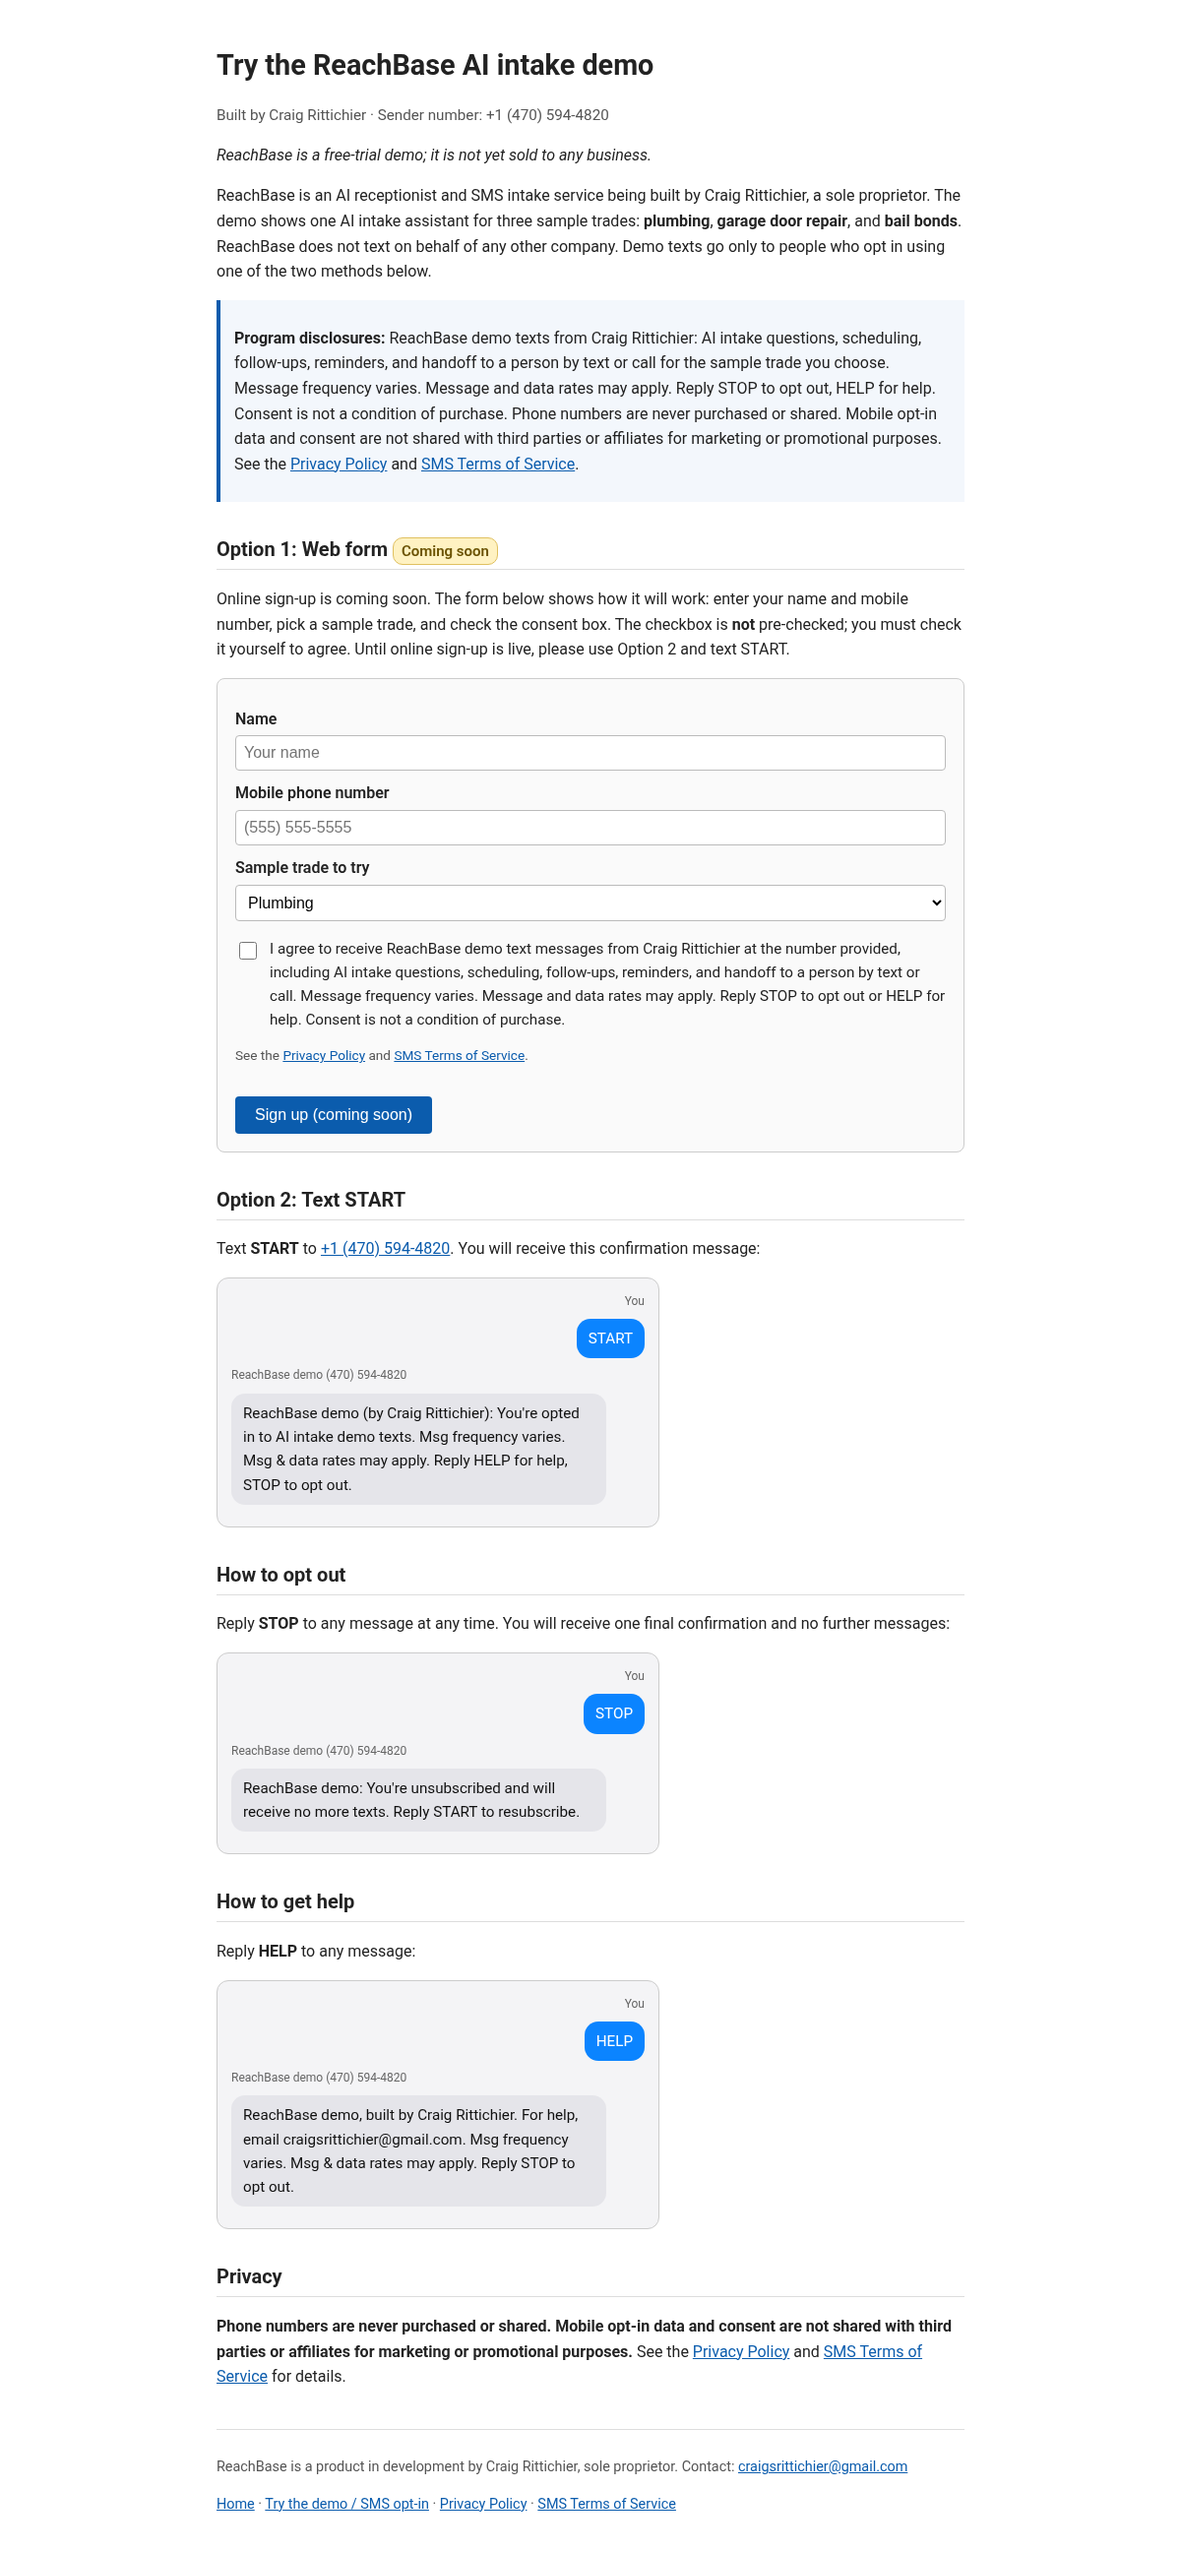
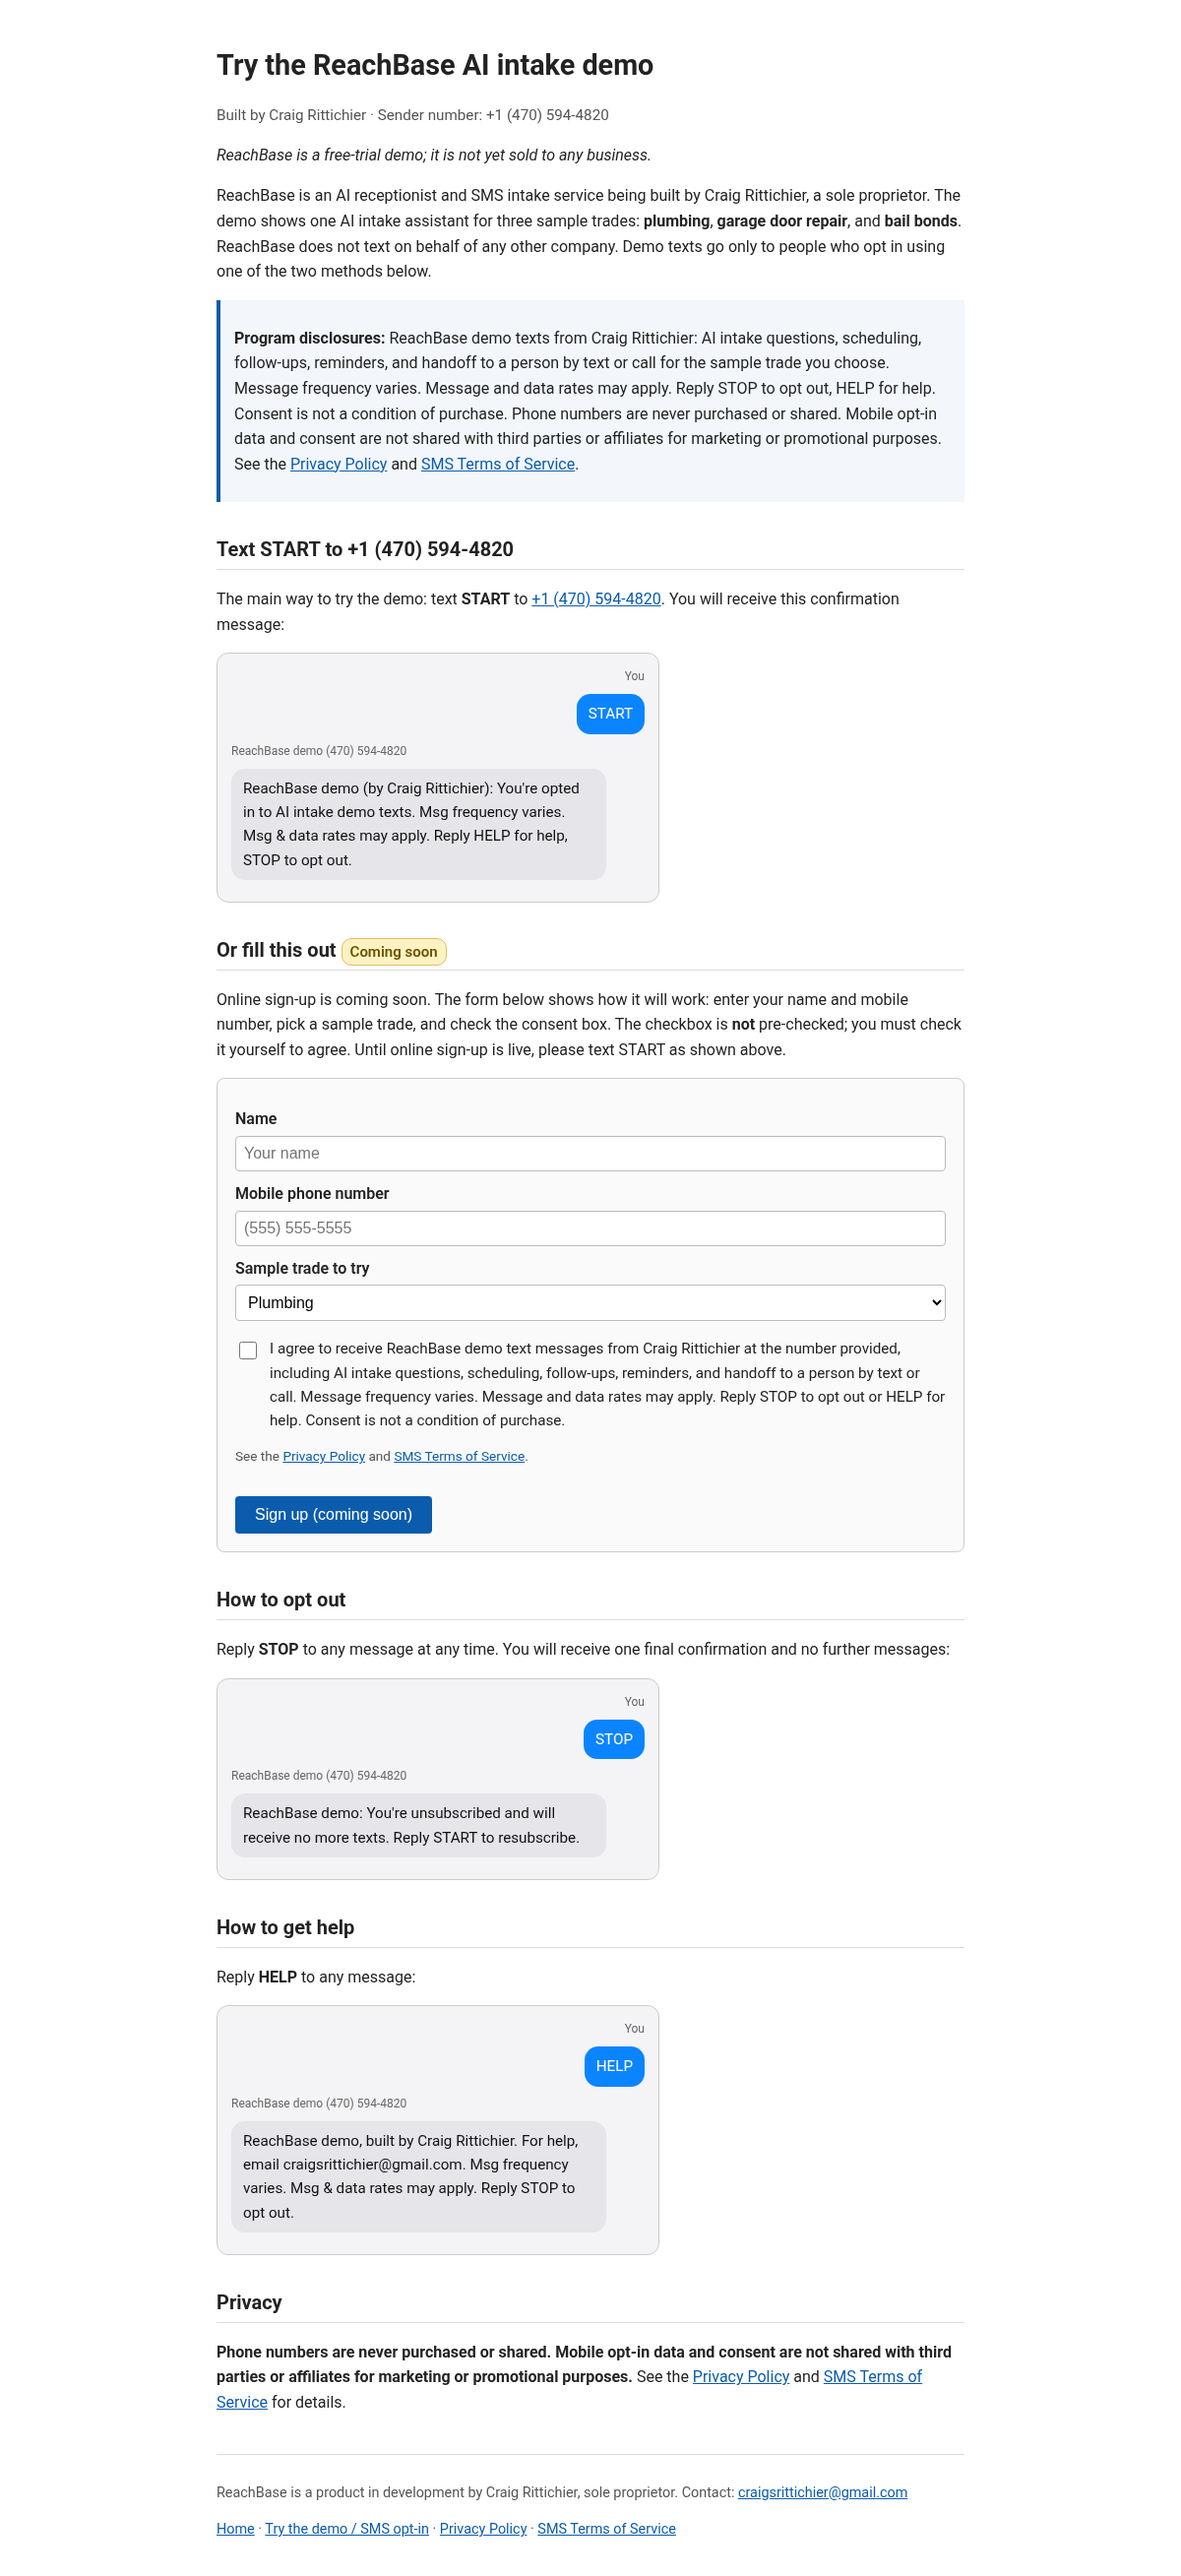
Opt-in page: make texting START the primary method

diff --git a/opt-in.html b/opt-in.html
@@ -43,8 +43,18 @@
 <p><strong>Program disclosures:</strong> ReachBase demo texts from Craig Rittichier: AI intake questions, scheduling, follow-ups, reminders, and handoff to a person by text or call for the sample trade you choose. Message frequency varies. Message and data rates may apply. Reply STOP to opt out, HELP for help. Consent is not a condition of purchase. Phone numbers are never purchased or shared. Mobile opt-in data and consent are not shared with third parties or affiliates for marketing or promotional purposes. See the <a href="privacy.html">Privacy Policy</a> and <a href="terms.html">SMS Terms of Service</a>.</p>
 </div>
 
-<h2>Option 1: Web form <span class="soon">Coming soon</span></h2>
-<p>Online sign-up is coming soon. The form below shows how it will work: enter your name and mobile number, pick a sample trade, and check the consent box. The checkbox is <strong>not</strong> pre-checked; you must check it yourself to agree. Until online sign-up is live, please use Option 2 and text START.</p>
+<h2>Text START to +1 (470) 594-4820</h2>
+<p>The main way to try the demo: text <strong>START</strong> to <a href="sms:+14705944820">+1 (470) 594-4820</a>. You will receive this confirmation message:</p>
+
+<div class="sms" aria-label="Example opt-in text conversation">
+  <p class="who r">You</p>
+  <div class="bubble out">START</div>
+  <p class="who">ReachBase demo (470) 594-4820</p>
+  <div class="bubble in">ReachBase demo (by Craig Rittichier): You're opted in to AI intake demo texts. Msg frequency varies. Msg &amp; data rates may apply. Reply HELP for help, STOP to opt out.</div>
+</div>
+
+<h2>Or fill this out <span class="soon">Coming soon</span></h2>
+<p>Online sign-up is coming soon. The form below shows how it will work: enter your name and mobile number, pick a sample trade, and check the consent box. The checkbox is <strong>not</strong> pre-checked; you must check it yourself to agree. Until online sign-up is live, please text START as shown above.</p>
 
 <form id="optin" novalidate>
   <label class="field" for="name">Name</label>
@@ -65,16 +75,6 @@
   <button type="submit">Sign up (coming soon)</button>
   <div class="thanks" id="thanks" role="status">Online sign-up is coming soon. Nothing was submitted. In the meantime, text <strong>START</strong> to <a href="sms:+14705944820">+1 (470) 594-4820</a> to try the demo.</div>
 </form>
-
-<h2>Option 2: Text START</h2>
-<p>Text <strong>START</strong> to <a href="sms:+14705944820">+1 (470) 594-4820</a>. You will receive this confirmation message:</p>
-
-<div class="sms" aria-label="Example opt-in text conversation">
-  <p class="who r">You</p>
-  <div class="bubble out">START</div>
-  <p class="who">ReachBase demo (470) 594-4820</p>
-  <div class="bubble in">ReachBase demo (by Craig Rittichier): You're opted in to AI intake demo texts. Msg frequency varies. Msg &amp; data rates may apply. Reply HELP for help, STOP to opt out.</div>
-</div>
 
 <h2>How to opt out</h2>
 <p>Reply <strong>STOP</strong> to any message at any time. You will receive one final confirmation and no further messages:</p>
